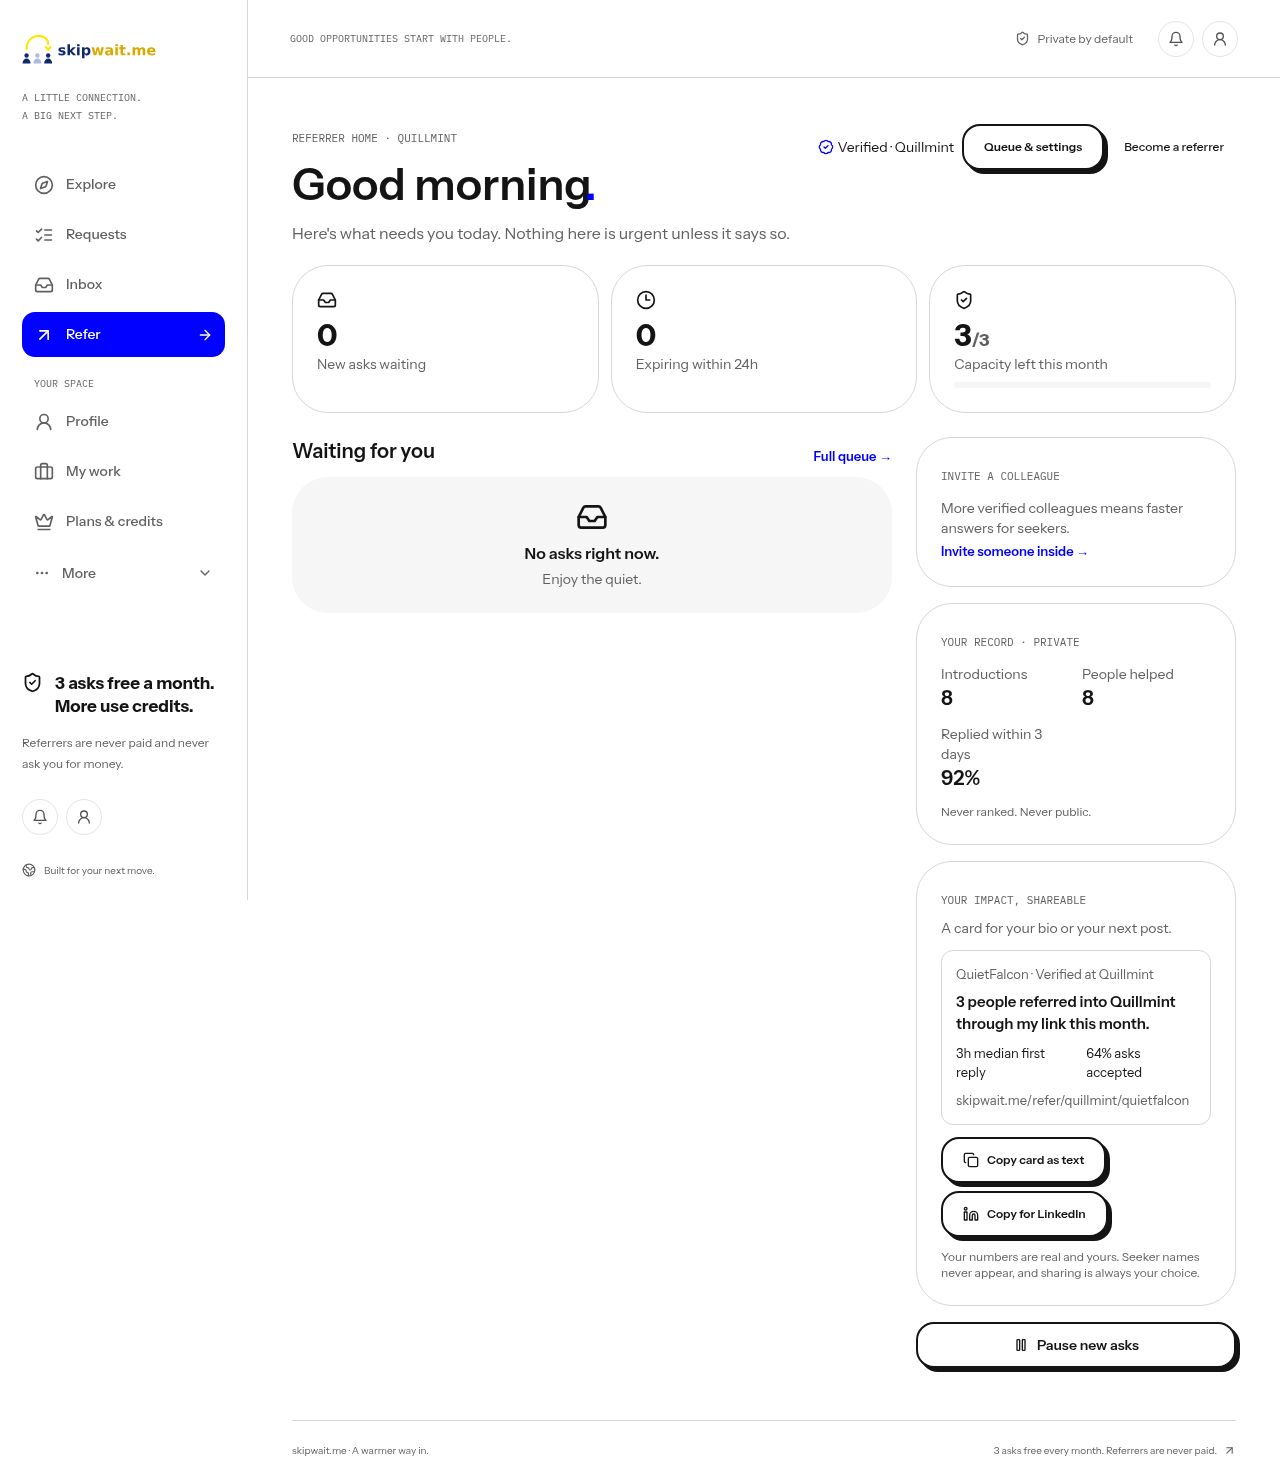
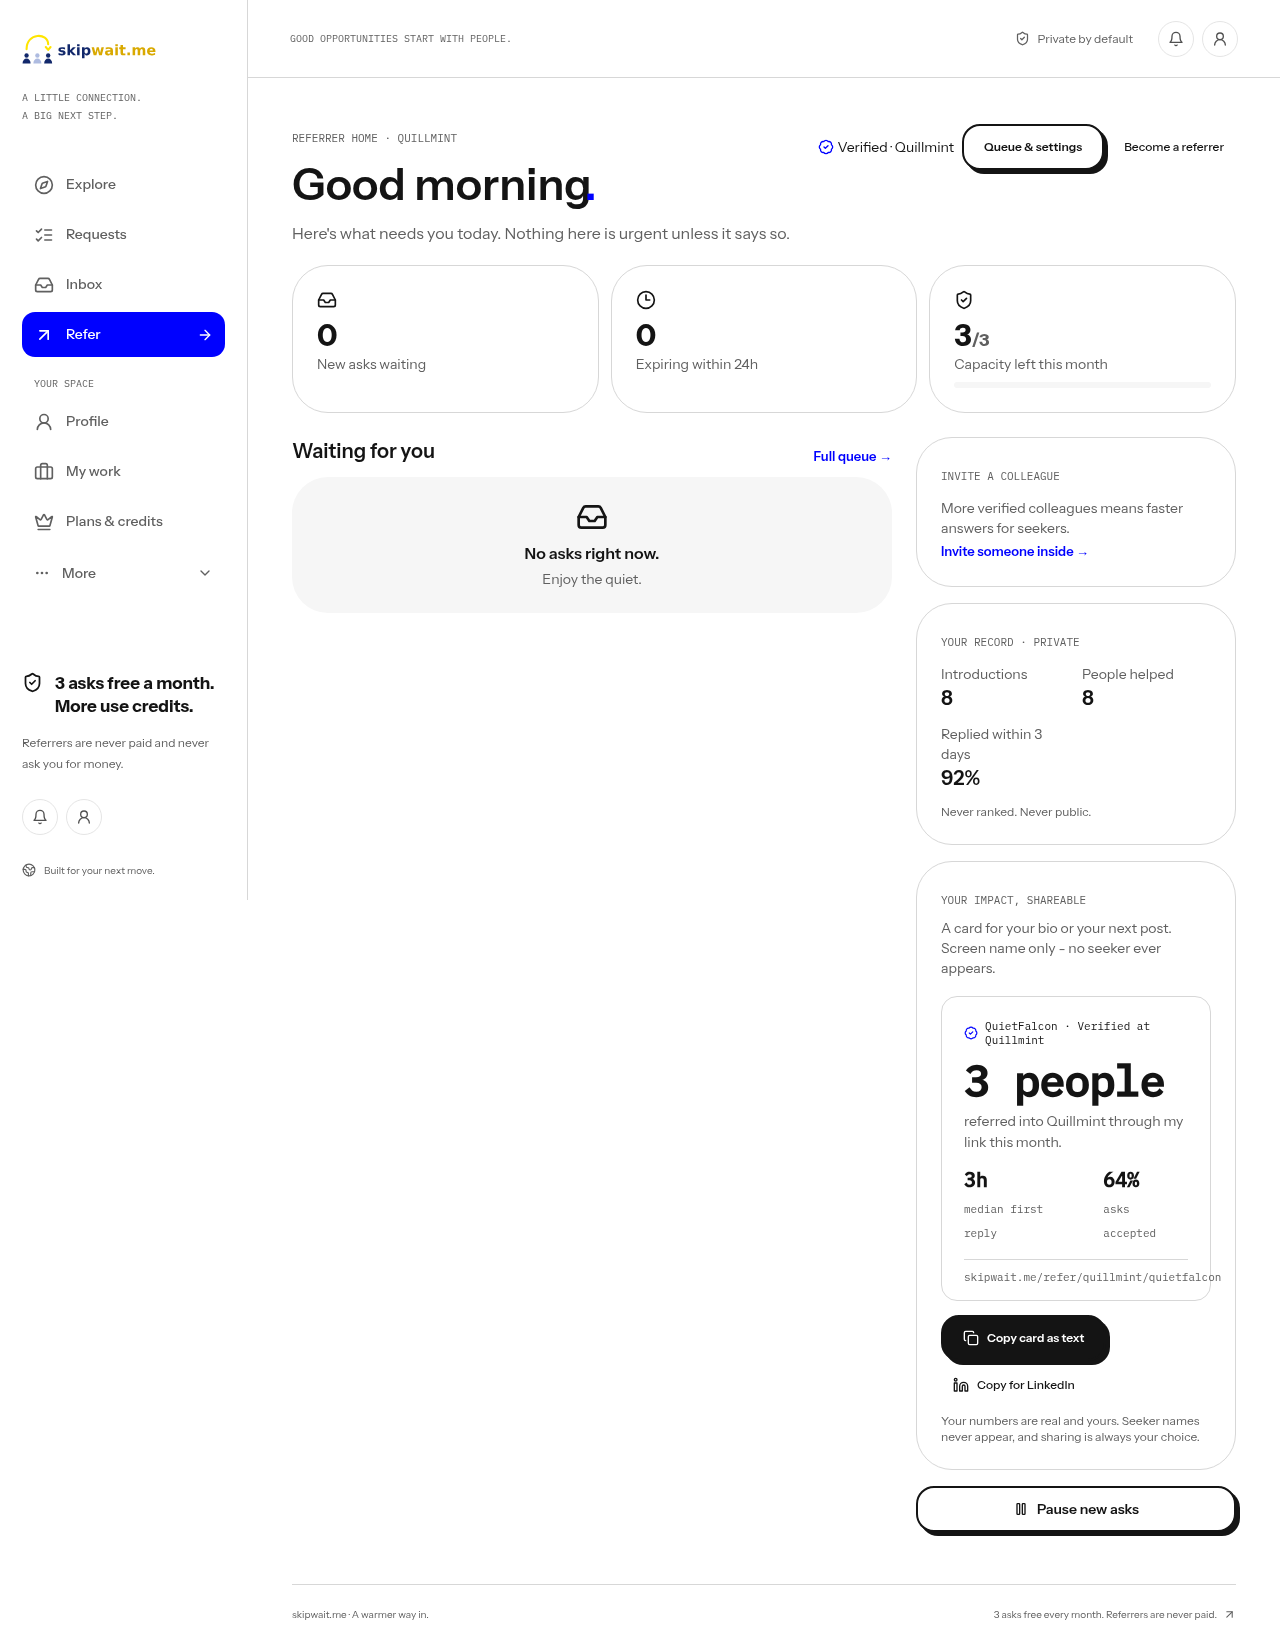
Designer review + QA gate fixes: referred counts intro_made-or-later (accept is not a referral), min-3 gate on distinct asks not events, hero numeral + blue verified mark + mono stats + black commit/ghost buttons per mock, copy split verbatim, captures re-taken

diff --git a/shared/shareImpactCard.ts b/shared/shareImpactCard.ts
@@ -2,8 +2,13 @@
 // design/goal-ui/content.json "shareImpact" (sync-pinned by the test). The card
 // is built ONLY from the referrer's screen name, their company identity, the
 // public link and aggregate stats: there is no field that could carry a seeker
-// name, title, pitch or ask id, so no seeker can ever appear on it. Min-3 gate
-// (D-104 rule): fewer than 3 answered asks shows nothing at all.
+// name, title, pitch or ask id, so no seeker can ever appear on it.
+//
+// TRUTH RULES (designer review, Oct 21):
+// - "people referred" counts asks that reached INTRO MADE or later
+//   (progress to intro_made/interview/offer). An accept alone is NOT a referral.
+// - The min-3 gate counts DISTINCT ANSWERED ASKS, never events (QA note: one
+//   ask can carry more than one event from the same referrer).
 import copy from "../design/goal-ui/content.json" with { type: "json" };
 
 export const IMPACT_CARD_COPY = copy.shareImpact;
@@ -23,8 +28,49 @@ export type ImpactCardInput = {
   stats: ImpactStats;
 };
 
-/** Min-3 gate (same rule as the company response signal, D-104). */
+/** Min-3 gate on DISTINCT answered asks (same rule as the company response signal, D-104). */
 export const IMPACT_MIN_ANSWERED = 3;
+
+/** Actions that answer an ask. Verified against server/db.ts transition writes. */
+export const IMPACT_DECISION_ACTIONS = ["approve", "pass"] as const;
+/** resultingStatus values that mean an intro actually happened ("referred"). */
+export const IMPACT_REFERRED_STATUSES = ["intro_made", "interview", "offer"] as const;
+
+export type ImpactEvent = {
+  requestId: number;
+  action: string;
+  resultingStatus: string;
+  createdAt: Date;
+};
+
+export type ImpactSummary = {
+  /** Distinct asks the referrer answered (approve or pass). Gates the card. */
+  answeredAsks: number;
+  /** Distinct asks that reached intro_made or later this UTC month. */
+  referredThisMonth: number;
+  /** approved / answered on distinct asks, rounded; null under the gate. */
+  acceptRatePct: number | null;
+};
+
+/** Aggregate one referrer's transition events. Distinct asks only, events never counted twice. */
+export function summarizeImpact(events: readonly ImpactEvent[], now: Date = new Date()): ImpactSummary {
+  const answered = new Set<number>();
+  const approved = new Set<number>();
+  const referred = new Set<number>();
+  const monthStart = Date.UTC(now.getUTCFullYear(), now.getUTCMonth(), 1);
+  for (const event of events) {
+    if (event.action === "approve") { answered.add(event.requestId); approved.add(event.requestId); }
+    else if (event.action === "pass") answered.add(event.requestId);
+    else if ((IMPACT_REFERRED_STATUSES as readonly string[]).includes(event.resultingStatus) && event.createdAt.getTime() >= monthStart) referred.add(event.requestId);
+  }
+  const answeredAsks = answered.size;
+  return {
+    answeredAsks,
+    referredThisMonth: referred.size,
+    acceptRatePct: answeredAsks === 0 ? null : Math.round((approved.size / answeredAsks) * 100),
+  };
+}
+
 export const impactCardVisible = (answeredAsks: number): boolean => answeredAsks >= IMPACT_MIN_ANSWERED;
 
 const fill = (template: string, values: Record<string, string | number>): string =>
@@ -34,25 +80,35 @@ export function impactVerifiedLine(input: Pick<ImpactCardInput, "screenName" | "
   return fill(IMPACT_CARD_COPY.verifiedLine, { screenName: input.screenName, company: input.companyName });
 }
 
-export function impactReferredLine(input: Pick<ImpactCardInput, "companyName"> & { count: number }): string {
-  return fill(IMPACT_CARD_COPY.referredLine, { count: input.count, company: input.companyName });
+export function impactReferredBig(count: number): string {
+  return fill(IMPACT_CARD_COPY.referredBig, { count });
 }
 
-export function impactStatLines(stats: ImpactStats): string[] {
-  const lines: string[] = [];
-  if (stats.medianFirstReplyHours !== null) lines.push(fill(IMPACT_CARD_COPY.medianReply, { hours: stats.medianFirstReplyHours }));
-  if (stats.acceptRatePct !== null) lines.push(fill(IMPACT_CARD_COPY.acceptRate, { pct: stats.acceptRatePct }));
-  return lines;
+export function impactReferredLine(companyName: string): string {
+  return fill(IMPACT_CARD_COPY.referredLine, { company: companyName });
+}
+
+/** Stat pairs for the card: mono numeral + label, dropped when unknown. */
+export function impactStatPairs(stats: ImpactStats): Array<{ value: string; label: string }> {
+  const pairs: Array<{ value: string; label: string }> = [];
+  if (stats.medianFirstReplyHours !== null) pairs.push({ value: fill(IMPACT_CARD_COPY.medianReplyValue, { hours: stats.medianFirstReplyHours }), label: IMPACT_CARD_COPY.medianReplyLabel });
+  if (stats.acceptRatePct !== null) pairs.push({ value: fill(IMPACT_CARD_COPY.acceptRateValue, { pct: stats.acceptRatePct }), label: IMPACT_CARD_COPY.acceptRateLabel });
+  return pairs;
+}
+
+/** One honest sentence for clipboard contexts. */
+function referredSentence(input: ImpactCardInput): string {
+  return `${impactReferredBig(input.stats.referredThisMonth)} ${impactReferredLine(input.companyName)}`;
 }
 
 /** Plain-text card for the clipboard. Aggregates and screen name only. */
 export function impactCardText(input: ImpactCardInput): string {
-  const lines = [impactVerifiedLine(input), "", impactReferredLine({ companyName: input.companyName, count: input.stats.referredThisMonth }), ...impactStatLines(input.stats), "", `https://skipwait.me${input.linkPath}`];
+  const lines = [impactVerifiedLine(input), "", referredSentence(input), ...impactStatPairs(input.stats).map(pair => `${pair.value} ${pair.label}`), "", `https://skipwait.me${input.linkPath}`];
   return lines.join("\n");
 }
 
 /** LinkedIn-ready post. No claims about seekers, no names. */
 export function impactCardLinkedIn(input: ImpactCardInput): string {
-  const lines = [`I help people get referred into ${input.companyName}.`, "", impactReferredLine({ companyName: input.companyName, count: input.stats.referredThisMonth }), ...impactStatLines(input.stats), "", `Ask me for a referral: https://skipwait.me${input.linkPath}`];
+  const lines = [`I help people get referred into ${input.companyName}.`, "", referredSentence(input), ...impactStatPairs(input.stats).map(pair => `${pair.value} ${pair.label}`), "", `Ask me for a referral: https://skipwait.me${input.linkPath}`];
   return lines.join("\n");
 }

diff --git a/server/impactCard.ts b/server/impactCard.ts
@@ -5,7 +5,7 @@
 // The min-3 gate (D-104 rule) lives in shared/shareImpactCard.ts.
 import { and, desc, eq, inArray } from "drizzle-orm";
 import { companies, companyDomains, referralRequests, referralTransitionEvents, referrerFastTrackLinks } from "../drizzle/schema";
-import { IMPACT_MIN_ANSWERED, type ImpactStats } from "../shared/shareImpactCard";
+import { IMPACT_DECISION_ACTIONS, impactCardVisible, summarizeImpact, type ImpactEvent, type ImpactStats } from "../shared/shareImpactCard";
 import { getDb } from "./db";
 
 export const IMPACT_CARD_FLAG = "SHARE_IMPACT_CARD_ENABLED";
@@ -45,27 +45,29 @@ export async function loadImpactCard(referrerId: number, now: Date = new Date())
   const [company] = await db.select({ name: companies.name, slug: companies.slug, status: companies.status }).from(companies).where(eq(companies.id, domainRow.companyId)).limit(1);
   if (!company || company.status !== "listed") return { state: "insufficient" };
 
-  // All asks that reached this referrer's decisions.
-  const decisions = await db
-    .select({ action: referralTransitionEvents.action, createdAt: referralTransitionEvents.createdAt, requestId: referralTransitionEvents.referralRequestId })
+  // All of this referrer's answer events (approve/pass) and progress events
+  // (intro_made or later = a real referral). The min-3 gate and the referred
+  // count work on DISTINCT asks via shared/shareImpactCard.summarizeImpact
+  // (QA note: one ask can carry more than one event from the same referrer).
+  const rows = await db
+    .select({ action: referralTransitionEvents.action, resultingStatus: referralTransitionEvents.resultingStatus, createdAt: referralTransitionEvents.createdAt, requestId: referralTransitionEvents.referralRequestId })
     .from(referralTransitionEvents)
-    .where(and(eq(referralTransitionEvents.actorUserId, referrerId), inArray(referralTransitionEvents.action, ["approve", "pass"])));
+    .where(and(eq(referralTransitionEvents.actorUserId, referrerId), inArray(referralTransitionEvents.action, [...IMPACT_DECISION_ACTIONS, "progress"])));
 
-  const approved = decisions.filter(row => row.action === "approve").length;
-  const answered = decisions.length;
-  if (answered < IMPACT_MIN_ANSWERED) return { state: "insufficient" };
-
-  const monthStart = new Date(Date.UTC(now.getUTCFullYear(), now.getUTCMonth(), 1));
-  const referredThisMonth = decisions.filter(row => row.action === "approve" && new Date(row.createdAt) >= monthStart).length;
+  const events: ImpactEvent[] = rows.map(row => ({ requestId: row.requestId, action: row.action, resultingStatus: row.resultingStatus, createdAt: new Date(row.createdAt) }));
+  const summary = summarizeImpact(events, now);
+  if (!impactCardVisible(summary.answeredAsks)) return { state: "insufficient" };
+  const referredThisMonth = summary.referredThisMonth;
 
   // Median first-reply hours: ask visible -> this referrer's first approve/pass.
+  const decisions = events.filter(event => (IMPACT_DECISION_ACTIONS as readonly string[]).includes(event.action));
   const asks = await db
     .select({ requestId: referralRequests.id, visibleAt: referralRequests.coverageVisibleAt, createdAt: referralRequests.createdAt })
     .from(referralRequests)
     .where(inArray(referralRequests.id, decisions.map(row => row.requestId)));
   const firstDecisionByRequest = new Map<number, Date>();
   for (const row of decisions) {
-    const at = new Date(row.createdAt);
+    const at = row.createdAt;
     const current = firstDecisionByRequest.get(row.requestId);
     if (!current || at < current) firstDecisionByRequest.set(row.requestId, at);
   }
@@ -89,7 +91,7 @@ export async function loadImpactCard(referrerId: number, now: Date = new Date())
     stats: {
       referredThisMonth,
       medianFirstReplyHours: median(replyHours) === null ? null : Math.round(median(replyHours)!),
-      acceptRatePct: Math.round((approved / answered) * 100),
+      acceptRatePct: summary.acceptRatePct,
     },
   };
 }

diff --git a/client/src/components/referrer-home/ShareImpactCard.tsx b/client/src/components/referrer-home/ShareImpactCard.tsx
@@ -3,13 +3,15 @@
 // GET /api/referrer/impact-card. Copy verbatim from content.json shareImpact;
 // every string the referrer can copy comes from shared/shareImpactCard.ts, so no
 // seeker can ever appear on the card. Min-3 gate enforced server-side: on
-// "insufficient" the card renders nothing.
+// "insufficient" the card renders nothing. Structure follows the designer mock
+// (share-impact.html): blue verified mark, hero numeral, mono stat numerals,
+// one black commit button + ghost LinkedIn.
 import { useEffect, useState } from "react";
-import { Check, Copy, Linkedin } from "lucide-react";
+import { BadgeCheck, Check, Copy, Linkedin } from "lucide-react";
 import { Button } from "@/components/kit/button";
 import { Panel } from "@/components/kit/preview-kit";
 import { SHARE_IMPACT_CARD } from "@/lib/shareFlags";
-import { IMPACT_CARD_COPY, impactCardLinkedIn, impactCardText, impactVerifiedLine, impactReferredLine, impactStatLines, type ImpactCardInput } from "@shared/shareImpactCard";
+import { IMPACT_CARD_COPY, impactCardLinkedIn, impactCardText, impactVerifiedLine, impactReferredBig, impactReferredLine, impactStatPairs, type ImpactCardInput } from "@shared/shareImpactCard";
 
 type Payload = { state: "ready" | "insufficient"; screenName?: string; companyName?: string; companySlug?: string; linkPath?: string; stats?: ImpactCardInput["stats"] };
 
@@ -50,19 +52,22 @@ export function ShareImpactCard() {
     <Panel>
       <span className="eyebrow">{IMPACT_CARD_COPY.heading.toUpperCase()}</span>
       <p className="mt-2 text-sm text-muted-foreground">{IMPACT_CARD_COPY.intro}</p>
-      <div className="share-impact-card" data-testid="share-impact-card">
-        <p className="share-impact-verified">{impactVerifiedLine(input)}</p>
-        <p className="share-impact-lead">{impactReferredLine({ companyName: input.companyName, count: input.stats.referredThisMonth })}</p>
-        <div className="share-impact-stats">
-          {impactStatLines(input.stats).map(line => <span key={line}>{line}</span>)}
+      <div className="sharecard" data-testid="share-impact-card">
+        <p className="sharecard__status"><BadgeCheck className="size-4 text-primary" />{impactVerifiedLine(input)}</p>
+        <p className="sharecard__big">{impactReferredBig(input.stats.referredThisMonth)}</p>
+        <p className="sharecard__line">{impactReferredLine(input.companyName)}</p>
+        <div className="sharecard__stats">
+          {impactStatPairs(input.stats).map(pair => (
+            <div className="sharecard__stat" key={pair.label}><b>{pair.value}</b><span>{pair.label}</span></div>
+          ))}
         </div>
-        <p className="share-impact-link">skipwait.me{input.linkPath}</p>
+        <p className="sharecard__brand">skipwait.me{input.linkPath}</p>
       </div>
       <div className="mt-3 flex flex-wrap gap-2">
-        <Button size="sm" variant="outline" onClick={() => void copy("text")}>
+        <Button size="sm" className="bg-foreground text-background hover:bg-foreground/90" onClick={() => void copy("text")}>
           {copied === "text" ? <Check /> : <Copy />}{copied === "text" ? IMPACT_CARD_COPY.copied : IMPACT_CARD_COPY.copyText}
         </Button>
-        <Button size="sm" variant="outline" onClick={() => void copy("linkedin")}>
+        <Button size="sm" variant="ghost" onClick={() => void copy("linkedin")}>
           {copied === "linkedin" ? <Check /> : <Linkedin />}{copied === "linkedin" ? IMPACT_CARD_COPY.copied : IMPACT_CARD_COPY.copyLinkedIn}
         </Button>
       </div>

diff --git a/shared/shareImpactCard.test.ts b/shared/shareImpactCard.test.ts
@@ -1,6 +1,6 @@
 import { describe, expect, it } from "vitest";
 import copy from "../design/goal-ui/content.json" with { type: "json" };
-import { IMPACT_CARD_COPY, IMPACT_MIN_ANSWERED, impactCardLinkedIn, impactCardText, impactCardVisible, type ImpactCardInput } from "./shareImpactCard";
+import { IMPACT_CARD_COPY, IMPACT_MIN_ANSWERED, impactCardLinkedIn, impactCardText, impactCardVisible, summarizeImpact, type ImpactCardInput, type ImpactEvent } from "./shareImpactCard";
 
 const input: ImpactCardInput = {
   screenName: "QuietFalcon",
@@ -10,14 +10,39 @@ const input: ImpactCardInput = {
   stats: { referredThisMonth: 3, medianFirstReplyHours: 3, acceptRatePct: 64 },
 };
 
+const ev = (requestId: number, action: string, resultingStatus: string, createdAt = "2026-10-10T10:00:00Z"): ImpactEvent => ({ requestId, action, resultingStatus, createdAt: new Date(createdAt) });
+const NOW = new Date("2026-10-21T09:00:00Z");
+
 describe("referrer impact card", () => {
   it("copy stays in sync with content.json shareImpact", () => {
     expect(IMPACT_CARD_COPY).toEqual(copy.shareImpact);
   });
-  it("min-3 gate: fewer than 3 answered asks shows nothing", () => {
+  it("min-3 gate: fewer than 3 distinct answered asks shows nothing", () => {
     expect(impactCardVisible(0)).toBe(false);
     expect(impactCardVisible(IMPACT_MIN_ANSWERED - 1)).toBe(false);
     expect(impactCardVisible(IMPACT_MIN_ANSWERED)).toBe(true);
+  });
+  it("QA (a): the gate counts distinct asks, never events - 2 asks with 3 events stays hidden", () => {
+    const events = [ev(1, "approve", "approved"), ev(1, "progress", "intro_made"), ev(2, "pass", "declined")];
+    const summary = summarizeImpact(events, NOW);
+    expect(summary.answeredAsks).toBe(2);
+    expect(impactCardVisible(summary.answeredAsks)).toBe(false);
+  });
+  it("an accept is not a referral: referred counts intro_made-or-later only", () => {
+    const events = [ev(1, "approve", "approved"), ev(2, "approve", "approved"), ev(3, "approve", "approved"), ev(2, "progress", "intro_made")];
+    const summary = summarizeImpact(events, NOW);
+    expect(summary.answeredAsks).toBe(3);
+    expect(summary.referredThisMonth).toBe(1);
+    expect(summary.acceptRatePct).toBe(100);
+  });
+  it("referred counts only this UTC month; last month's intro does not count", () => {
+    const events = [ev(1, "approve", "approved"), ev(2, "approve", "approved"), ev(3, "approve", "approved"), ev(1, "progress", "intro_made", "2026-09-28T10:00:00Z"), ev(2, "progress", "interview")];
+    const summary = summarizeImpact(events, NOW);
+    expect(summary.referredThisMonth).toBe(1);
+  });
+  it("accept rate passes honestly: pass lowers it", () => {
+    const events = [ev(1, "approve", "approved"), ev(2, "pass", "declined"), ev(3, "pass", "declined")];
+    expect(summarizeImpact(events, NOW).acceptRatePct).toBe(33);
   });
   it("plain text card carries screen name, company, aggregates and the link", () => {
     const text = impactCardText(input);

diff --git a/client/src/index.css b/client/src/index.css
@@ -311,3 +311,14 @@ input, textarea { caret-color: var(--primary); }
 .g-num { font-family: var(--g-font-mono); font-weight: 500; font-size: min(1em, 13px); letter-spacing: 0; word-spacing: -0.2em; white-space: nowrap; font-variant-numeric: tabular-nums; font-variant-ligatures: none; }
 .g-hit { position: relative; }
 .g-hit::after { content: ""; position: absolute; left: 50%; top: 50%; width: max(100%, var(--g-touch)); height: max(100%, var(--g-touch)); transform: translate(-50%, -50%); }
+
+/* Referrer impact card (slice C, flag off). Structure follows the designer mock
+   /tmp/mocks/share-impact.html; tokens mapped to the kit. */
+.sharecard { border: 1px solid var(--border); border-radius: 16px; padding: 22px 22px 16px; margin: 18px 0 14px; background: var(--background); }
+.sharecard__status { font: 11px var(--font-label); color: var(--foreground); display: flex; align-items: center; gap: 7px; margin-bottom: 10px; }
+.sharecard__big { font-family: var(--font-label); font-size: 44px; font-weight: 600; letter-spacing: -0.03em; color: var(--foreground); line-height: 1.05; }
+.sharecard__line { font-size: 14px; color: var(--muted-foreground); margin-top: 8px; }
+.sharecard__stats { display: flex; gap: 22px; margin-top: 12px; }
+.sharecard__stat b { font-family: var(--font-label); font-size: 20px; font-weight: 600; color: var(--foreground); display: block; }
+.sharecard__stat span { font: 11px var(--font-label); color: var(--muted-foreground); }
+.sharecard__brand { font: 11px var(--font-label); color: var(--muted-foreground); margin-top: 16px; padding-top: 10px; border-top: 1px solid var(--border); }

diff --git a/client/src/styles/kit.css b/client/src/styles/kit.css
@@ -276,10 +276,3 @@ body {font-family:var(--font-ui);letter-spacing:0;} h1,h2,h3,p{letter-spacing:0;
 .intent-switch.intent-cards>button.selected>svg:first-child{color:var(--primary);}
 .intent-switch.intent-cards .intent-check{position:absolute;top:10px;right:10px;width:18px;height:18px;padding:2px;border-radius:50%;background:var(--foreground);color:var(--background);}
 @media(max-width:480px){.intent-switch.intent-cards{gap:8px;}.intent-switch.intent-cards>button{grid-template-columns:1fr;min-height:96px;padding:12px 30px 12px 12px;row-gap:4px;align-content:start;}.intent-switch.intent-cards>button>svg:first-child{grid-row:auto;}.intent-switch.intent-cards .intent-title{font-size:14px;}.intent-switch.intent-cards .intent-sub{font-size:11px;}}
-
-/* Referrer impact card (slice C, flag off) */
-.share-impact-card { margin-top: 12px; border: 1px solid var(--border); border-radius: 12px; padding: 14px; background: var(--card); }
-.share-impact-verified { font-size: 13px; color: var(--muted-foreground); }
-.share-impact-lead { margin-top: 6px; font-size: 15px; font-weight: 600; }
-.share-impact-stats { margin-top: 8px; display: flex; gap: 12px; font-size: 13px; }
-.share-impact-link { margin-top: 8px; font-size: 13px; color: var(--muted-foreground); }

diff --git a/client/src/components/referrer-home/ShareImpactCard.test.tsx b/client/src/components/referrer-home/ShareImpactCard.test.tsx
@@ -46,9 +46,12 @@ describe("Referrer impact card", () => {
     render(<ShareImpactCard />);
     const card = await screen.findByTestId("share-impact-card");
     expect(within(card).getByText("QuietFalcon · Verified at Kestrel Pay")).toBeTruthy();
-    expect(within(card).getByText("3 people referred into Kestrel Pay through my link this month.")).toBeTruthy();
-    expect(within(card).getByText("3h median first reply")).toBeTruthy();
-    expect(within(card).getByText("64% asks accepted")).toBeTruthy();
+    expect(within(card).getByText("3 people")).toBeTruthy();
+    expect(within(card).getByText("referred into Kestrel Pay through my link this month.")).toBeTruthy();
+    expect(within(card).getByText("3h")).toBeTruthy();
+    expect(within(card).getByText("median first reply")).toBeTruthy();
+    expect(within(card).getByText("64%")).toBeTruthy();
+    expect(within(card).getByText("asks accepted")).toBeTruthy();
     expect(within(card).getByText("skipwait.me/refer/kestrel-pay/quietfalcon")).toBeTruthy();
   });
   it("copied text carries no seeker data and keeps the honest copy", async () => {
